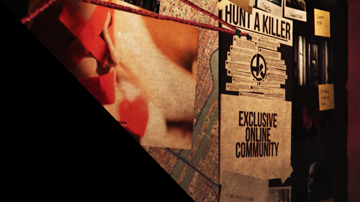
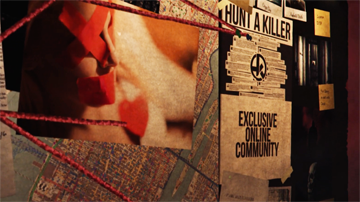
Updated images on Year in Review 2017

Changed region(s): [[0.0, 0.0891, 0.55, 1.0]]

diff --git a/app/assets/stylesheets/components/newsletters.scss b/app/assets/stylesheets/components/newsletters.scss
@@ -141,7 +141,7 @@ $brand-green-light: #f7f8f3;
             border-bottom: 360px solid $brand-black;
             border-right: 360px solid transparent;
             width: 0;
-            opacity: 0.5;
+            // opacity: 0.5;
           }
 
           &.yir-image-angle-odd:before {
@@ -151,7 +151,7 @@ $brand-green-light: #f7f8f3;
             border-top: 360px solid $brand-black;
             border-right: 360px solid transparent;
             width: 0;
-            opacity: 0.5;
+            // opacity: 0.5;
           }
         }
       }
